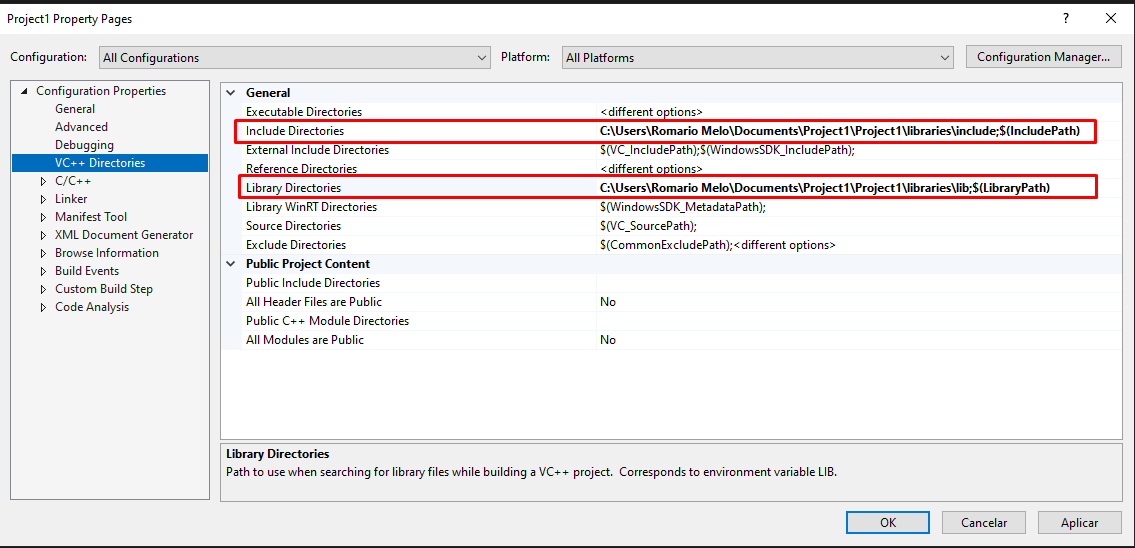
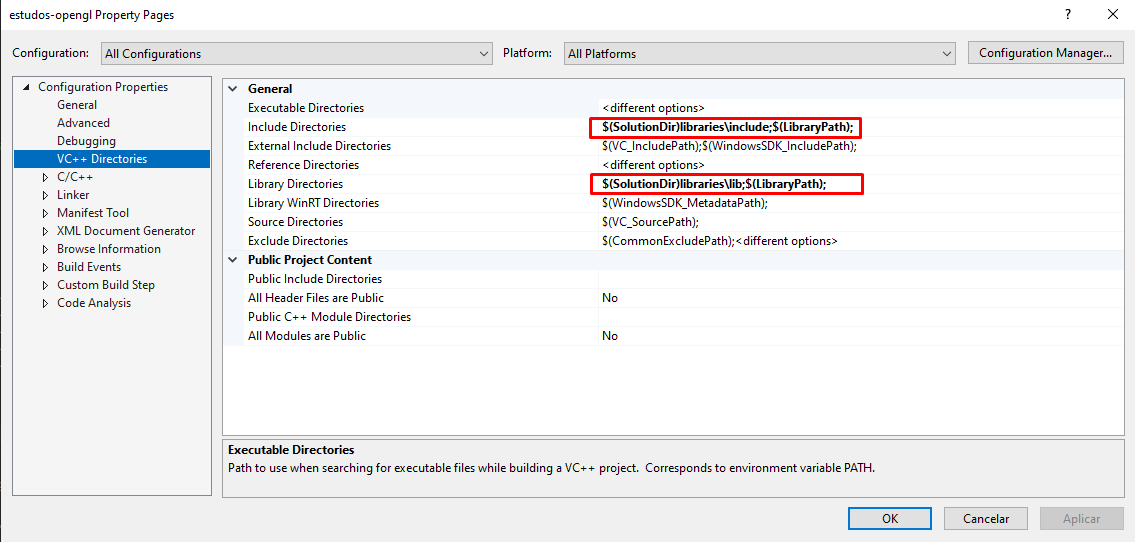
Atualização na documentação de inicialização de projeto base

Changed region(s): [[0.0, 0.0, 1.0, 1.0], [0.5242, 0.5904, 0.5551, 0.6494], [0.5242, 0.5314, 0.5551, 0.5609]]

diff --git a/docs/00-configuração.md b/docs/00-configuração.md
@@ -51,8 +51,8 @@
     - Em VS++:
 
         ![alt text](./images/01/image-5.png)
-        - Adicione a pasta `include` do projeto em *Include Directories*.
-        - Adicione a pasta `lib` do projeto em *Library Directories*.
+        - Faça referência a pasta include e os globais do windows em **Include Directories**: `$(SolutionDir)libraries\include;$(IncludePath)`
+        - Faça referência a pasta lib e os globais do windows em **Library Directories**: `$(SolutionDir)libraries\lib;$(LibraryPath)`
     - Em Linker->Input:
 
         ![alt text](./images/01/image-6.png)
